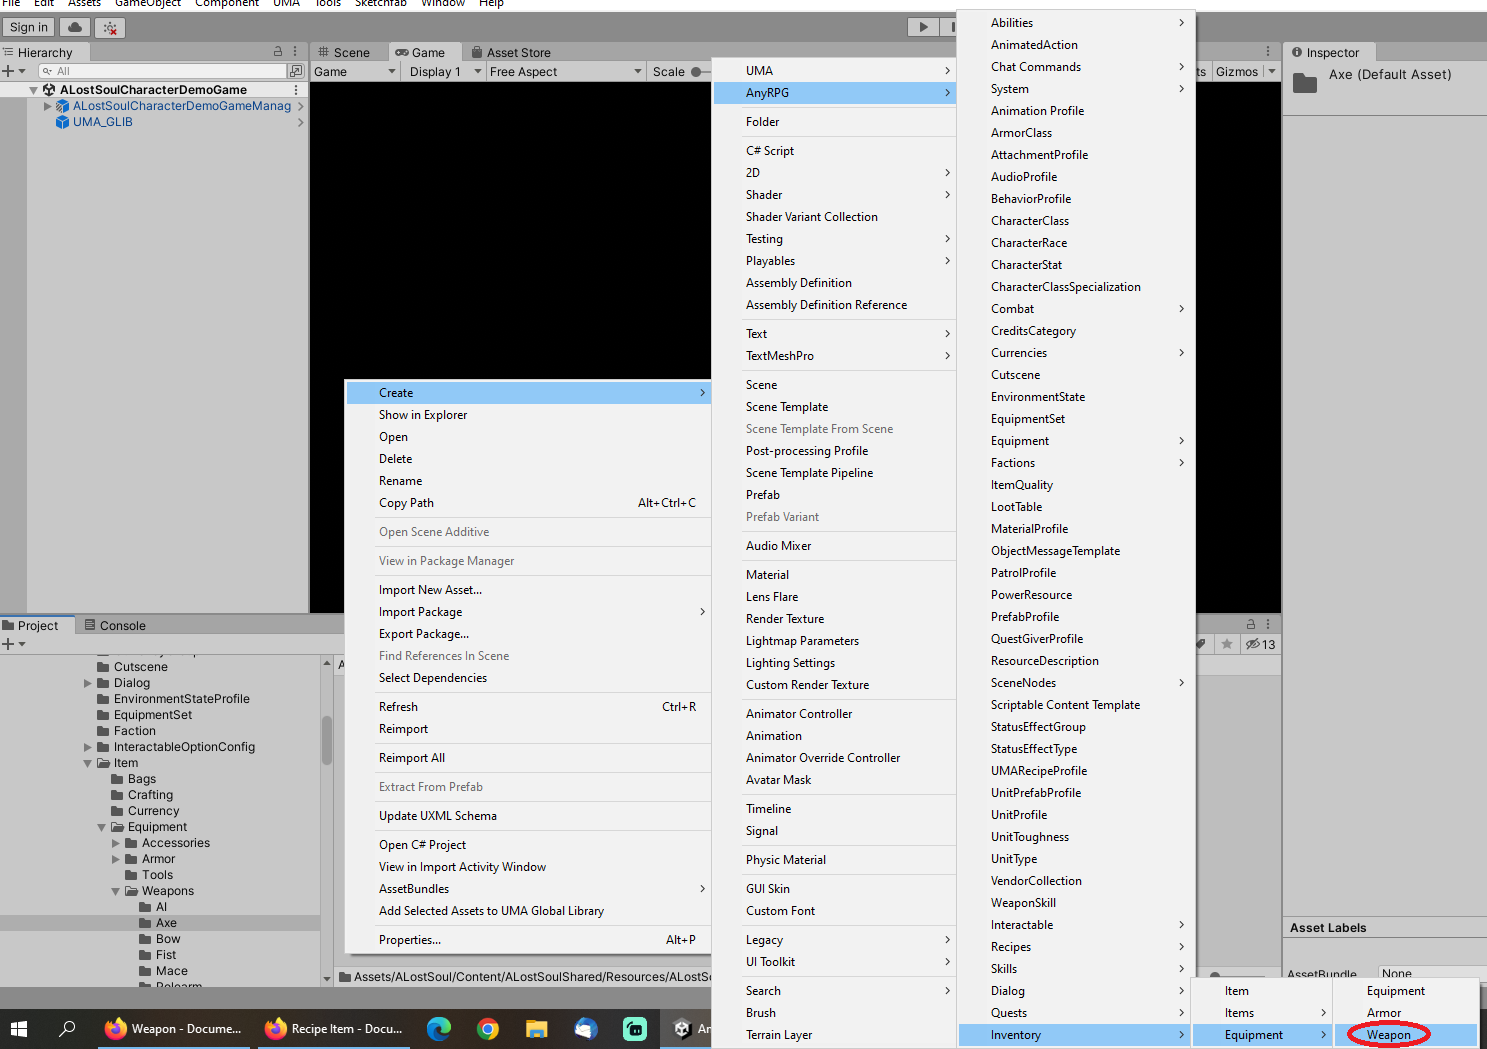
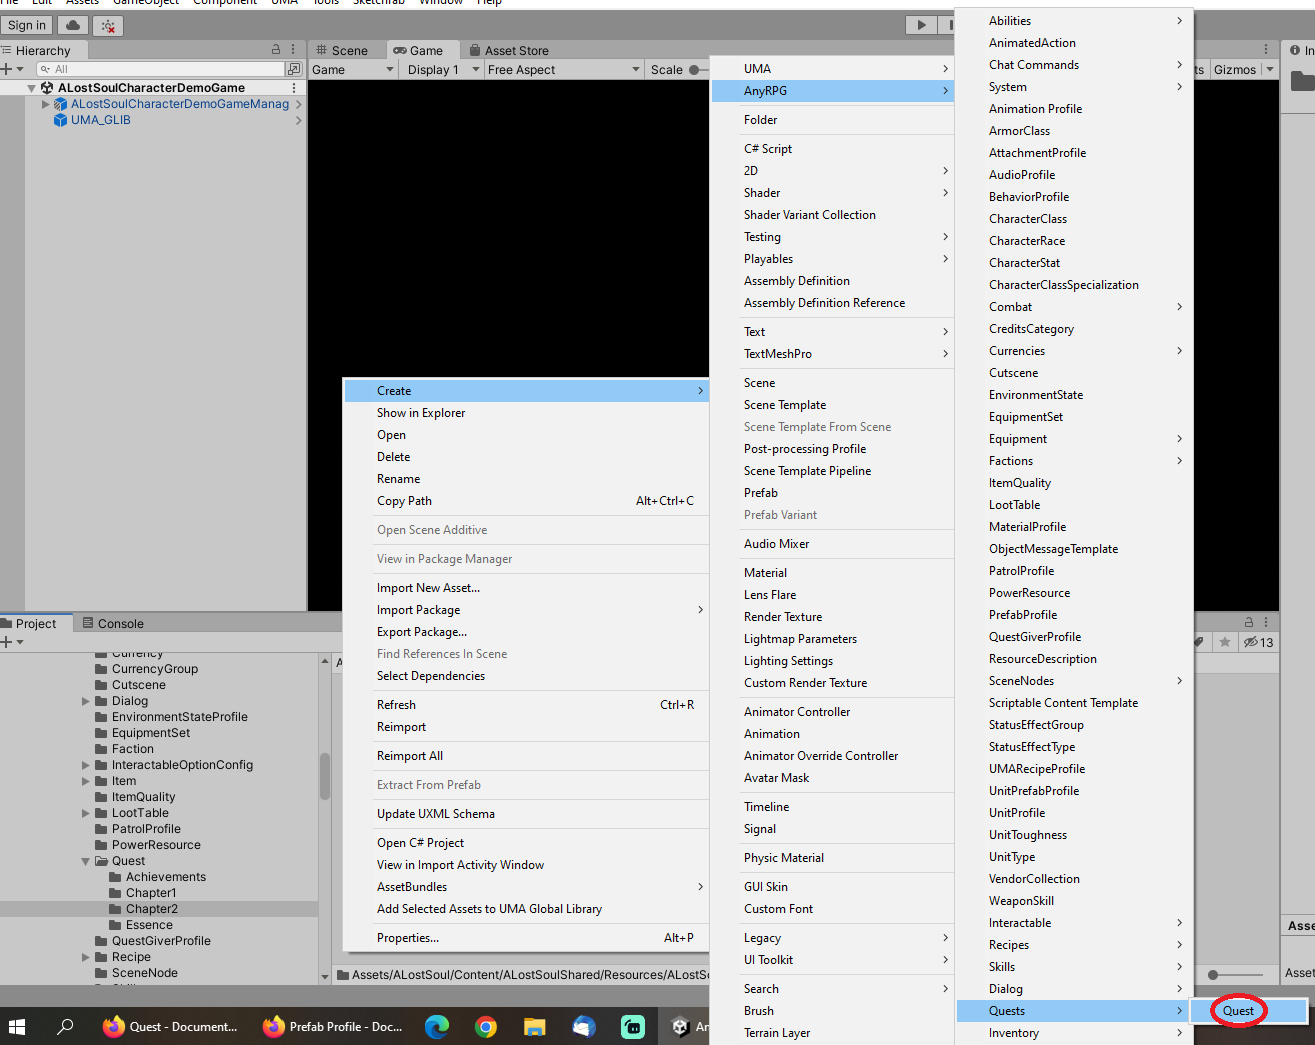
GitBook: [#52] add resource description documentation

diff --git a/scriptable-objects/resource-description.md b/scriptable-objects/resource-description.md
@@ -1,5 +1,30 @@
+---
+description: >-
+  A Resource Description is a multi-purpose file that can be used to overwrite
+  the display names and icons of other types of scriptable objects.  It can also
+  be used to support different languages.
+---
+
 # Resource Description
 
-{% hint style="info" %}
-Coming Soon
-{% endhint %}
+## Creation
+
+To create a resource description, find (or create) the _GameName/Resources/GameName/ResourceDescription_ folder in the project tab and right click.  Choose _Create > AnyRPG > ResourceDescription_.
+
+![](../.gitbook/assets/image.png)
+
+## Properties
+
+| Name                  | Description                                                                                                                                               |
+| --------------------- | --------------------------------------------------------------------------------------------------------------------------------------------------------- |
+| Resource Name         | This field is generally used as the lookup name (database key) when looking up a resource description.                                                    |
+| Display Name          | The text in this field will override the _Display Name_ field of whatever scriptable object this resource description is being used for.                  |
+| Icon                  | The image linked in this field will override the _Icon_ field of whatever scriptable object this resource description is being used for.                  |
+| Icon Background Image | The image linked in this field will override the _Icon Background Image_ field of whatever scriptable object this resource description is being used for. |
+| Description           | The text in this field will override the _Description_ field of whatever scriptable object this resource description is being used for.                   |
+
+## Next Steps
+
+* Use a resource description to override settings in [Items](items/).
+* Use a resource description to override settings in [Abilities](abilities/).
+* Use a resource description to override the display name of a scene file.

diff --git a/scriptable-objects/items/weapon.md b/scriptable-objects/items/weapon.md
@@ -8,7 +8,7 @@ description: A weapon is a type of equipment that does damage to an enemy when u
 
 To create a weapon, find (or create) the _GameName/Resources/GameName/Item/Equipment_ folder (or any subfolder) in the project tab and right click.  Choose _Create > AnyRPG > Inventory > Equipment > Weapon_.
 
-![](<../../.gitbook/assets/image (5).png>)
+![](<../../.gitbook/assets/image (5) (2).png>)
 
 ## Properties
 

diff --git a/scriptable-objects/quest.md b/scriptable-objects/quest.md
@@ -10,7 +10,7 @@ description: >-
 
 To create a quest, find (or create) the _GameName/Resources/GameName/Quest_ folder in the project tab and right click.  Choose _Create > AnyRPG > Quests > Quest_.
 
-![](../.gitbook/assets/image.png)
+![](<../.gitbook/assets/image (5).png>)
 
 ## Properties
 
